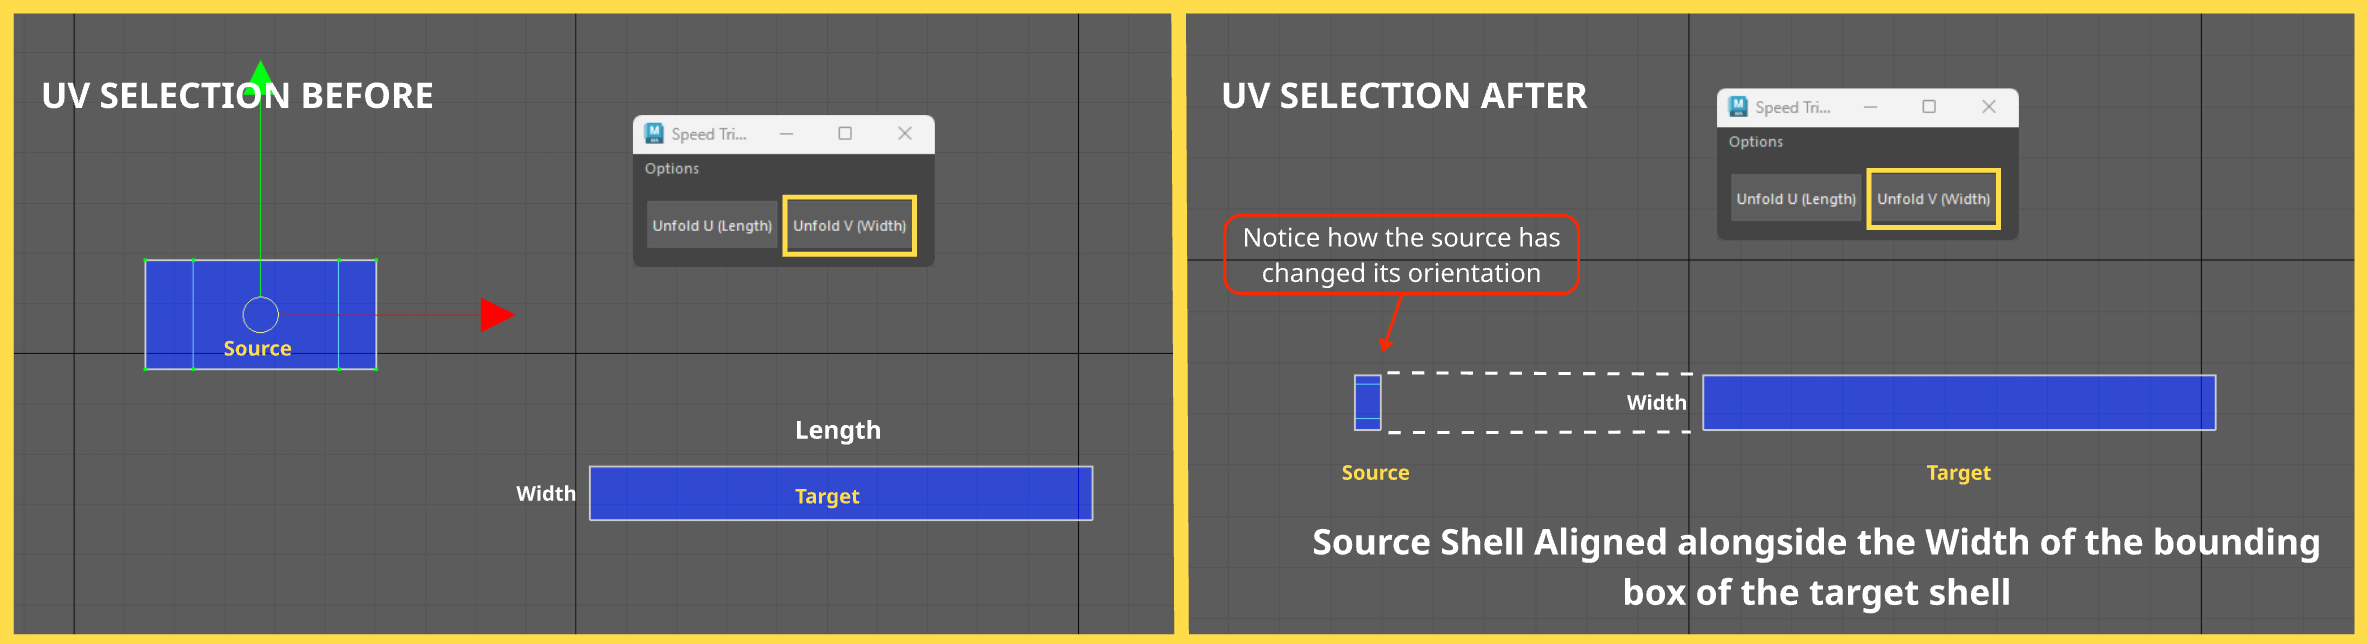
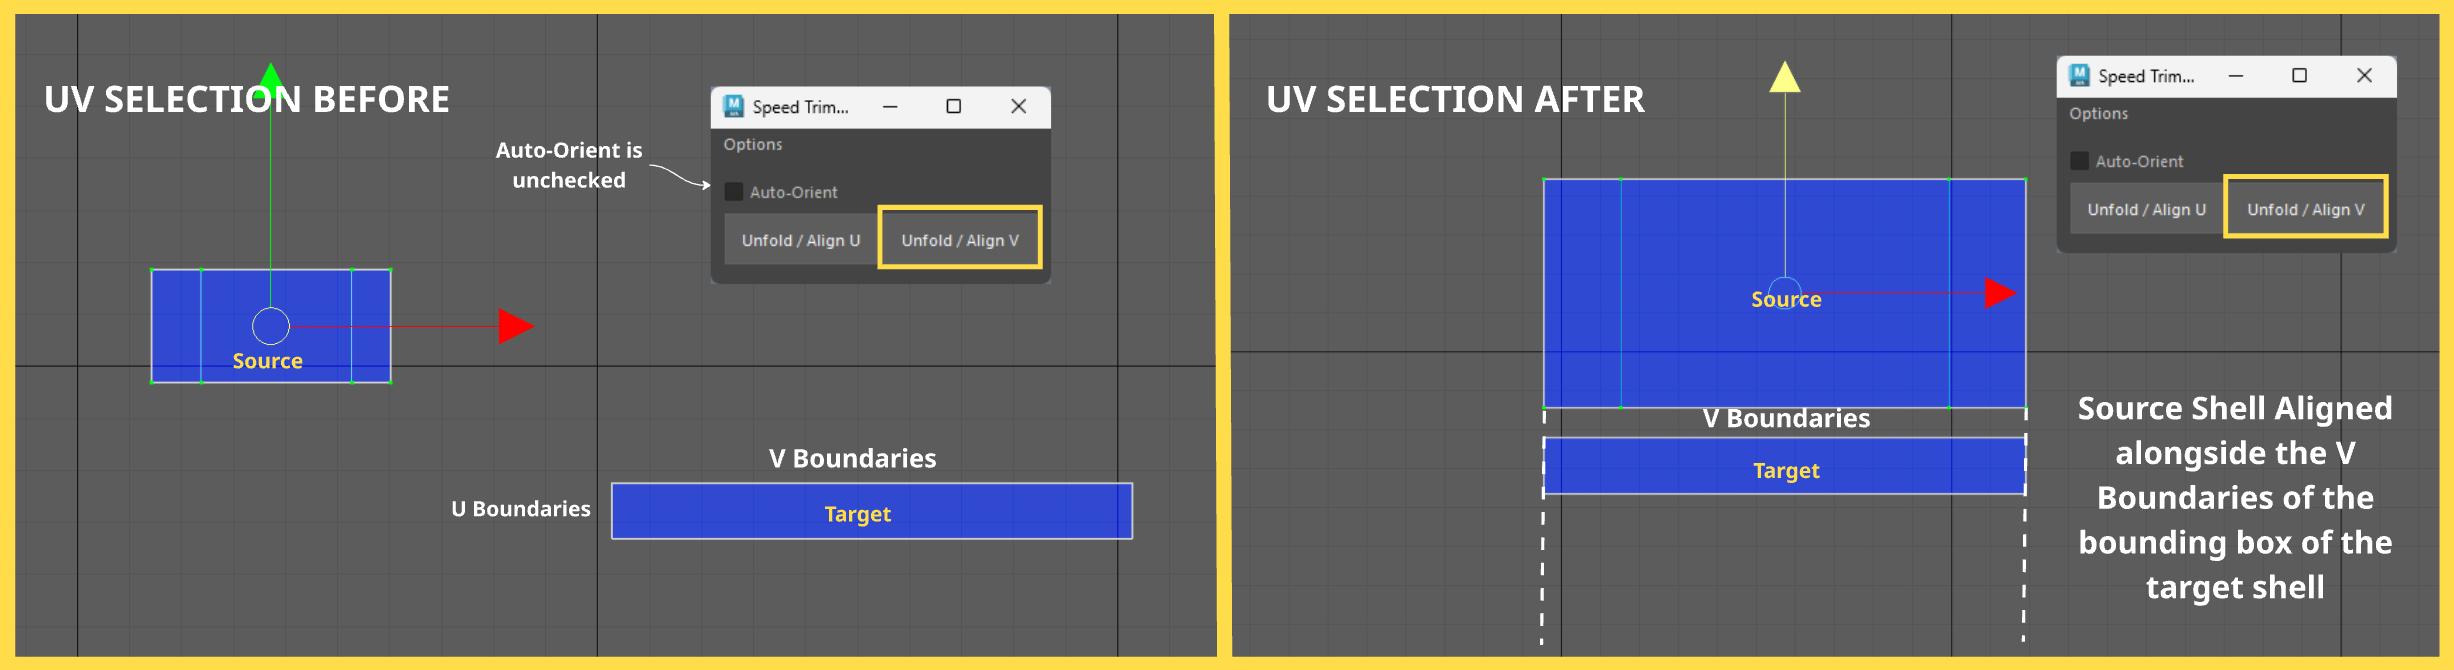
updated speed trim unfold
updated speed trim unfold

diff --git a/docs/Speed Trim Unfold/index.md b/docs/Speed Trim Unfold/index.md
@@ -69,15 +69,21 @@ Please check the Rules section
         <figcaption><span style="color:rgba(22, 165, 110, 1);">**Aligning trim sheets**</span></span></figcaption>
         </figure>
 
-        * The orientation of your shell is entirely dependent on the target orientation. 
-            * The tool calculates the bounding box of your target uv shell to determine its orientation. If it's longer on the V axis, it knows it's vertical and will rotate your source uvs to match that orientation.
+        * When Auto-Orient checkbox is checked, the tool compares bounding boxes between your source and target UV shells.  
+            * If your Target UV shell's bounding box is longer on the V axis and your Source UV Shell bounding box is longer in the U axis, the tool knows your source is vertical and will rotate that source uv shells to match that orientation of the target. 
+        ![Speed Trim multi select](images/Speed_Trim_UI_1.png){ .img-small .img-centered }
+        * When that checkbox is unchecked, the tool aligns your source shells to the U or V bounding box of your target shell. No automatic rotation or bounding box calculation happening. 
+        * Checking or Unchecking the checkbox impacts the way your Hokey behaves. Hotkeys will always look if the checkbox is checked and perform the necessary actions. So keep that in mind. 
+
 
         <figure>
         <img src="images/unfold_orient_scale_vertical_horizontal_1.gif" class="img-medium" alt="Mirror Cut Demo">
-        <figcaption><span style="color:rgba(22, 165, 110, 1);">**Aligning vertically**</span></span></figcaption>
+        <figcaption><span style="color:rgba(22, 165, 110, 1);">**Aligning horizontally/vertically**</span></span></figcaption>
         </figure>
 
-        * After the operation the tool will unfold your UV in a gridified manner. The spacing *(rows and columns)* of your UV shell are entirely dependent on your topology *(Longer sections will be unfolded horizontally)*.
+
+
+        * After the operation the tool will unfold your UV in a gridified manner. The spacing *(rows and columns)* of your UV shell are entirely dependent on your topology.
         * The tool will unfold your selection horizontally and place all shells in the center of the 0-1 UV space so all shells occupy the same space.
             * This is done so users can map multiple selections of trims at the same time. 
 
@@ -108,24 +114,38 @@ Please check the Rules section
 ## <span style="color:rgba(255, 251, 0, 1);">**UI Button Functionality**</span> ##
 ![Speed Trim multi select](images/Speed_Trim_UI_1.png){ .img-small .img-centered }
 
- <span style="color:rgba(22, 165, 110, 1);">**Unfold U and Unfold V**</span> : When having faces selected these buttons will unfold your trims **Horizontally** and **Vertically**.
+ <span style="color:rgba(22, 165, 110, 1);">**Unfold/Align U and Unfold/Align V**</span> : When having faces *(and edges)* selected these buttons will unfold your trims **Horizontally** and **Vertically**.
 
- The difference these make is when you have UV's selected. 
  
- - When aligning UVs to a target shell, the tool calcualtes the bounding box of that target shell. That calculation is how the tool knows how to orient the source UV shells.  
-    * Clicking on the <span style="color:rgba(22, 165, 110, 1);">**Unfold U (Length)**</span> button: will unfold your selected *(source)* Trim sheets alongside the **Length** of the targets bounding box. 
-    ??? Tip "Tip - Hotkey"
-        * Since trim sheets are usually long thin strips of UV Shells, it is recommended to use this button as a hotkey, this will ensure your UVs will be aligned to the length of your target UV shells *(horizontally and vertically)*. 
+The difference the UI makes is with how the Orientation between the Source and Target Shells happen. 
+
+If <span style="color:rgba(22, 165, 110, 1);">**Auto-Orient**</span> is ^^checked^^ the tool calculates the bounding boxes between the source and target UV shells. Then rotates if necessary and moves and scales the source uvs to match the target. 
+ 
+ 
+ If <span style="color:rgba(22, 165, 110, 1);">**Auto-Orient**</span> is ^^un-checked^^ then the tool does not calculate any bounding box or rotate any UV shell. It just takes into account each sources current UV shell layout and moves and scales it to either the U (if Unfold/Align U) is clicked or V (if Unfold/Align V) button is clicked. 
+ 
+???+ Tip "Tip - Hotkey"
+    * The state of the <span style="color:rgba(22, 165, 110, 1);">**Auto-Orient**</span> checkbox is stored in Maya when using the Hotkey. 
+        * It is designed that way so you can customize the behavior of the tool and adjust accordingly. 
+    * Since trim sheets are usually long thin strips of UV Shells, it is recommended to use the Unfold/Align U button as a hotkey, this will ensure your UVs will be aligned to the length of your target UV shells *(horizontally and vertically)*. 
+ 
+ 
+ When the Auto-Orient checkbox is unchecked.
+
+* Clicking on the <span style="color:rgba(22, 165, 110, 1);">**Unfold/Align U**</span> button: will unfold your selected *(source)* Trim sheets alongside the **U direction** of the targets bounding box. 
+
 
     ![Speed Trim multi select](images/Speed_Trim_button_1.png){ .img-medium .img-centered }
 
-     *  Clicking on the <span style="color:rgba(22, 165, 110, 1);">**Unfold V (Width)**</span> button: will unfold your selected *(source)* Trim sheets alongside the **width** of the targets bounding box. 
+*  Clicking on the <span style="color:rgba(22, 165, 110, 1);">**Unfold/Align V**</span> button: will unfold your selected *(source)* Trim sheets alongside the **V direction** of the targets bounding box. 
 
     ![Speed Trim multi select](images/Speed_Trim_button_2.png){ .img-medium .img-centered }
 
-    * Please note that the length of the **source** shells is being used to **align** towards the target shells.
-
-    * Here's a basic demonstration:
+* Orientation of Source matters when aligning. 
+    
+    ![Speed Trim multi select](images/Speed_Trim_button_3.png){ .img-medium .img-centered }
+    
+* Here's a basic demonstration:
 
 <figure style="text-align: center;">
     <img src="images/Speed_Trim_Buttons_alignment_2.gif" class="img-medium" alt="Speed_Trim_Buttons">
@@ -171,6 +191,14 @@ The tool will not work if you have only objects selected, it requires component 
 
 
 - <span style="color:rgba(22, 165, 110, 1);">**Create Shelf Button**</span> - Creates a shelf button for this tool directly on your active Maya shelf.
+
+- <span style="color:rgba(22, 165, 110, 1);">**Hotkey Setup...**</span> - Opens up a window so you can copy the **Python** code to create hotkeys for Horizonral and Vertical Unfold and Alignment. 
+
+![Speed Trim multi select](images/speed_trim_Options_3.png){ .img-small .img-centered }
+
+???+ Tip "Tip - Hotkey Recommentation"
+    * Since trim sheets are usually long, thin strips of UV shells, it's recommended to use the Unfold/Align U button as a hotkey with the Auto-Orient option always on.
+    * This ensures your UVs are unfolded horizontally, then oriented and aligned to match whatever the target shell is.
 
 - <span style="color:rgba(22, 165, 110, 1);">**Documentation**</span> - Opens a link to the documentation.
 

diff --git a/docs/Speed Trim Unfold/How to install.md b/docs/Speed Trim Unfold/How to install.md
@@ -47,22 +47,30 @@
 
     ---
 
-    Unfold Horizontally - Long Align <span style="color:rgba(195, 221, 80, 1);">*(Recommended)**</span>
+    Unfold/Align U <span style="color:rgba(195, 221, 80, 1);">*(Recommended)**</span>
 
-    Copy the 2 ^^**Python**^^  lines below and bind these on a ^^**hotkey**^^ to unfold ^^horizontally^^ and align your shells alongside the ^^long^^ side your targets bounding box. 
+    Copy the 2 ^^**Python**^^  lines below and bind these on a ^^**hotkey**^^ to unfold ^^horizontally^^ and align your shells to the horizontal U boundary of the target UV shell. *(Auto-Orient needs to be checked off in the UI for this to happen)*. 
+
+    ![Speed Trim multi select](images/Speed_Trim_UI_1.png){ .img-small }
 
     ``` py linenums="1"
     from Speed_Trim_Unfold import speed_trim_unfold
     speed_trim_unfold.unfold_long()
 
     ```
-    Unfold Vertically - Short Align
 
-    Copy the 2 ^^**Python**^^  lines below and bind these on a ^^**hotkey**^^ to unfold ^^vertically^^ and align your shells alongside the ^^short^^ side your targets bounding box. 
+    ???+ Tip "Tip - Unfold/Align U Hotkey"
+        * Since trim sheets are usually long, thin strips of UV shells, it's recommended to use the Unfold/Align U button as a hotkey with the Auto-Orient option always on.
+        * This ensures your UVs are unfolded horizontally, then oriented and aligned to match whatever the target shell is.
+
+
+    Unfold/Align V 
+
+    Copy the 2 ^^**Python**^^  lines below and bind these on a ^^**hotkey**^^ to unfold ^^vertically^^ and align your shells to the vertical V boundary of the target UV shell. *(Auto-Orient needs to be checked off in the UI for this to happen)*. 
     
     ``` py linenums="1"
     from Speed_Trim_Unfold import speed_trim_unfold
-    speed_trim_unfold.unfold_short()
+    speed_trim_unfold.unfold_short_rotated()
     ```
 
 </div>
